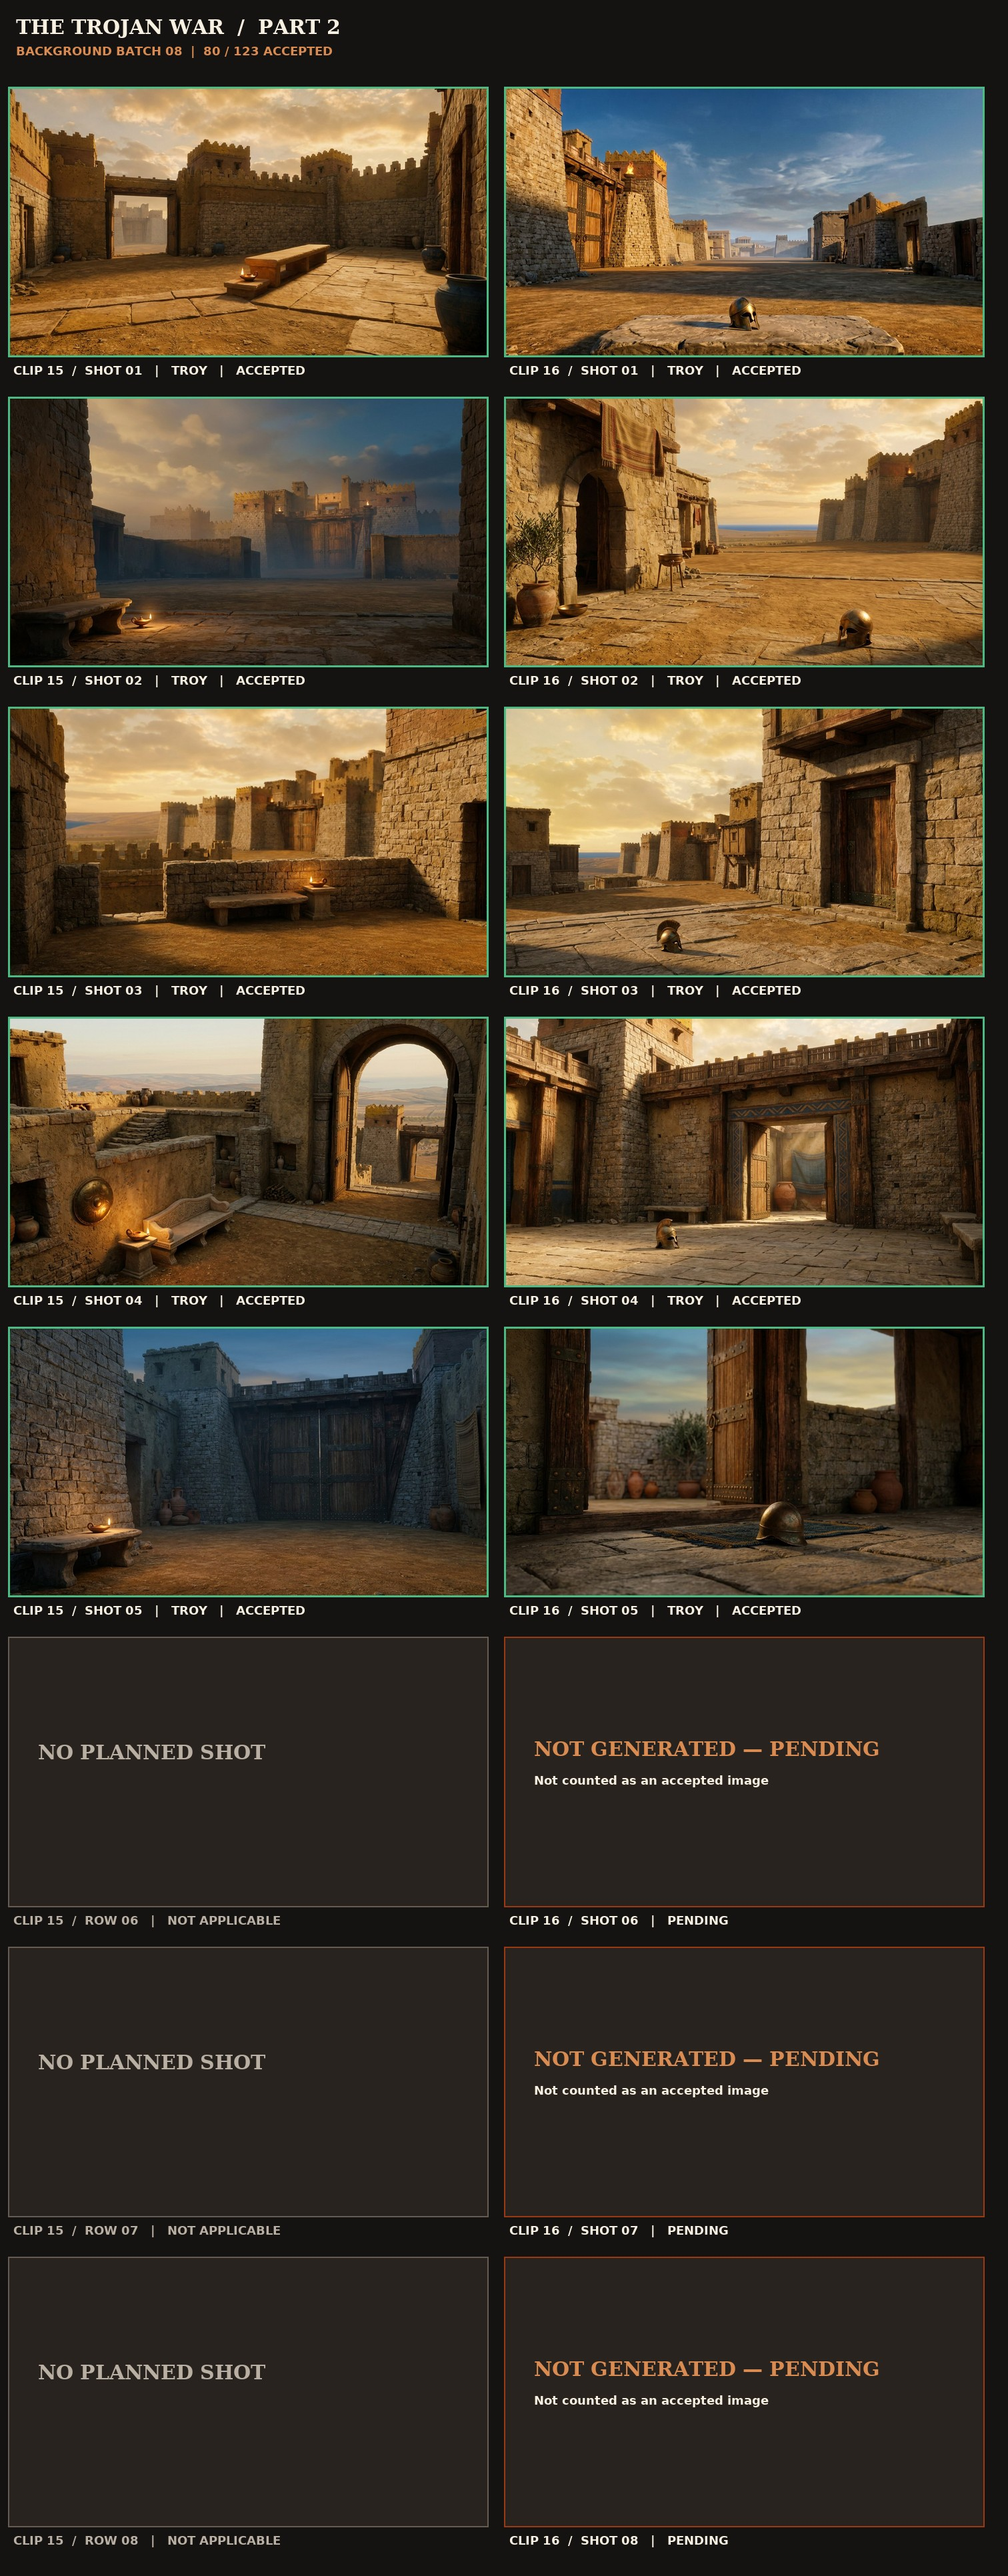
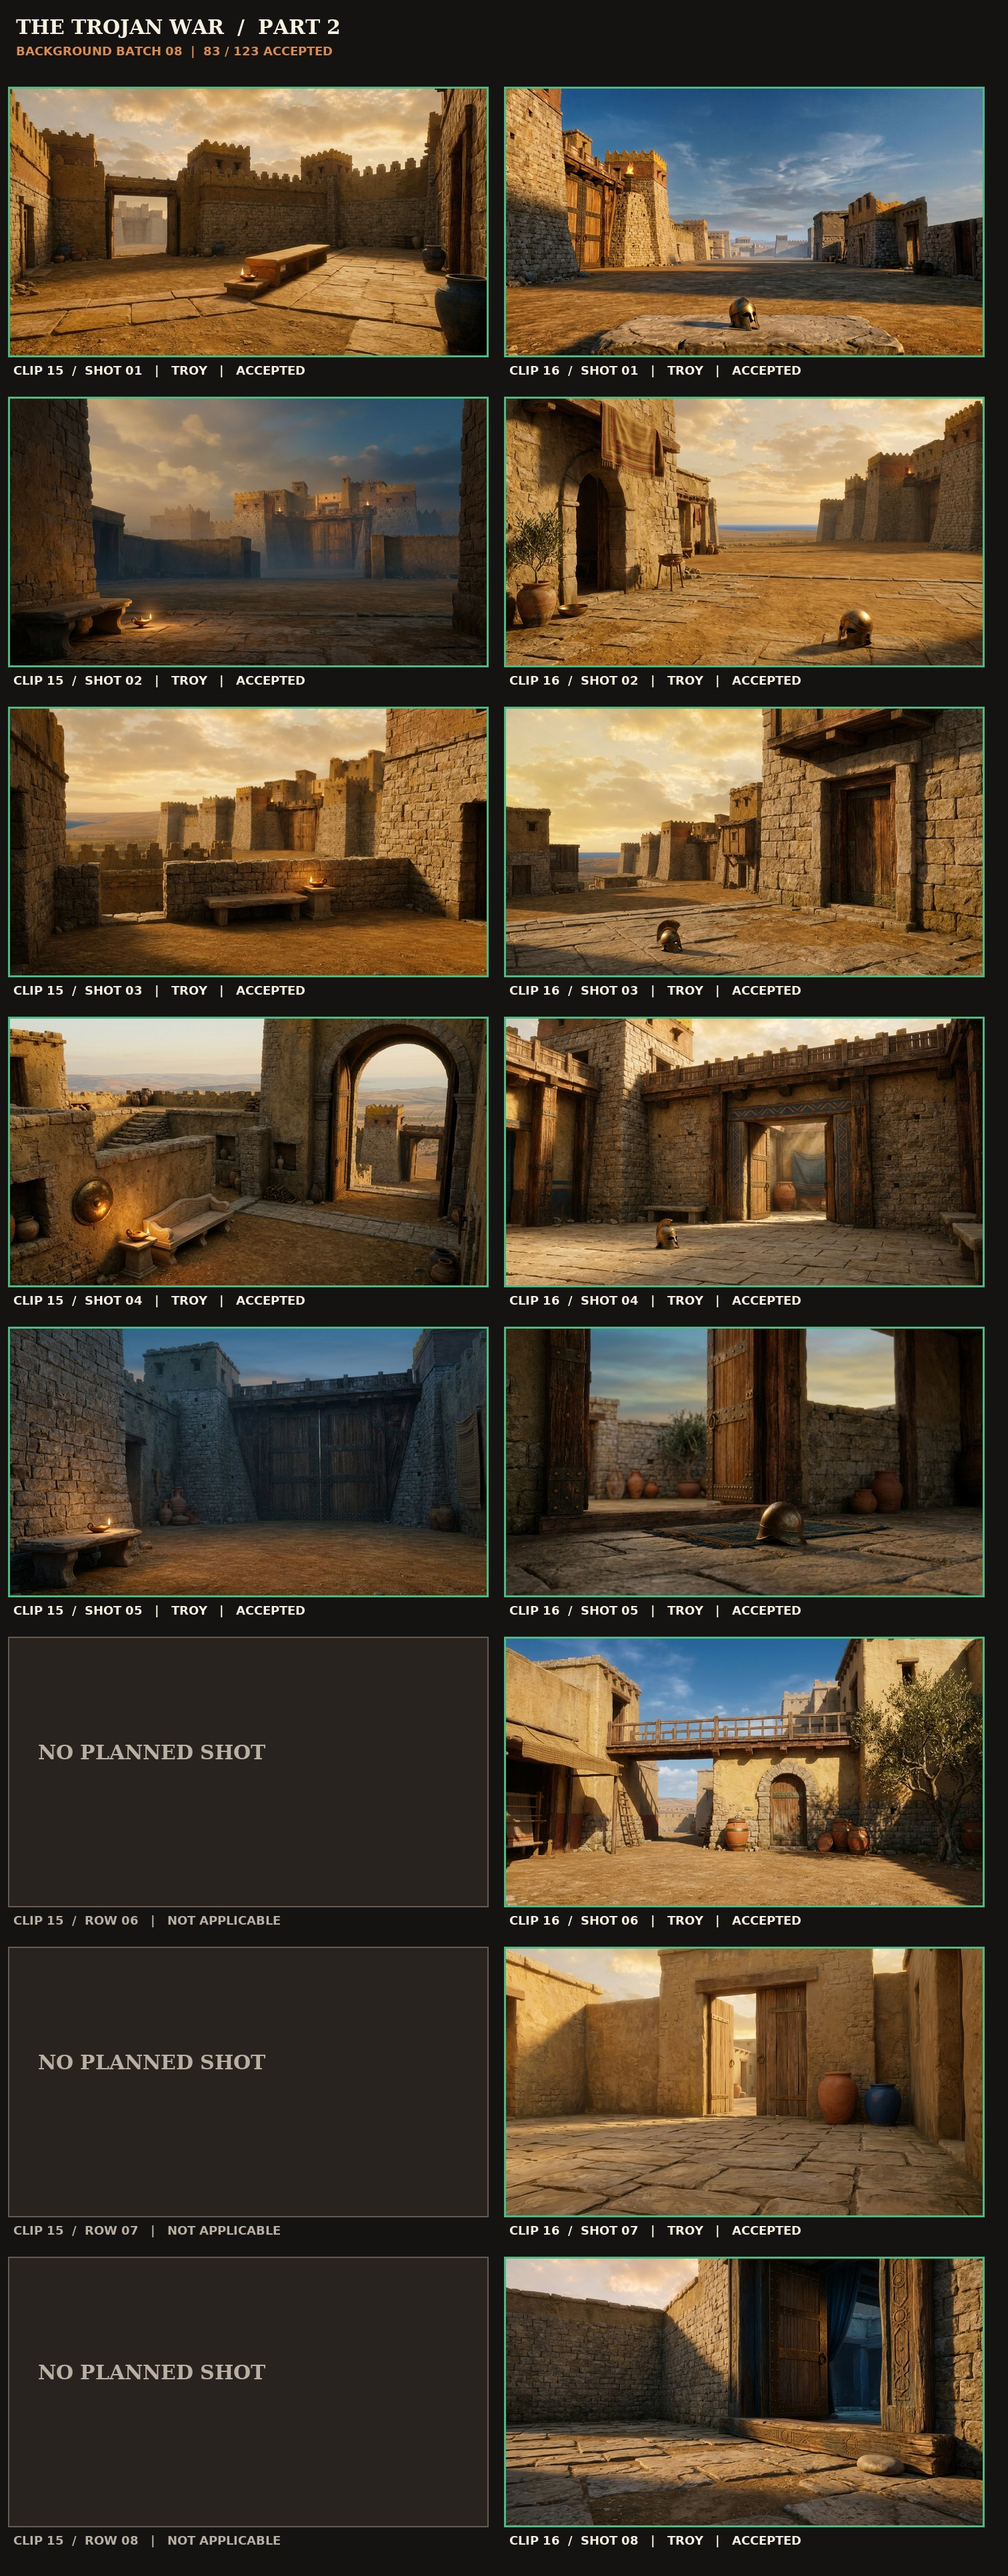
Complete Part 2 background batch 08 (13 of 13 plates)
Finished clips 15-16: private Trojan courtyard (Hector/Andromache
farewell) and the sunlit Trojan doorway household. Clip 16 shot 07
was rejected for carved glyph-like pseudo-lettering on the threshold
beam and door frame, then replaced with a corrective reroll verified
clean at 3x zoom.

Part 2 total: 83/123 accepted, 40 pending; clips 01-16 complete.
Batch 09 handoff (clips 17-18, full prompts) in next_background.json.
Script and VO unchanged.

Changed region(s): [[0.4974, 0.6211, 0.9947, 0.9938]]

diff --git a/production/STATUS.md b/production/STATUS.md
@@ -4,7 +4,7 @@
 **Recovered checkpoint:** `origin/arena/01a1032c-yt-2` at `774100f` (2026-10-04); accepted assets and recorded approvals are reused, not regenerated.
 **Locked script source:** `production/script_approved.txt` remains byte-identical to the supplied script; the separate retention draft is not the VO source. By explicit user approval, three non-graphic wording substitutions are permitted for Part 2 Chapter 7 narrator audio only; they are documented in `production/part2/chapter7_vo_override.json` and do not alter the locked source file.
 **Part 1 status:** Complete — 125/125 accepted plates, all 25 clips assembled, rendered, and QC-passed. The full export and QC reports are saved under `production/part1/`; the approved preview is unchanged.
-**Part 2 status:** VO and motion plan complete (24 measured clips / 123 unique plate slots). The five new character sheets were approved by the user with “continue” on 2026-10-05; all five static cutouts and face anchors pass visual QC. Background batches 01–08 are complete for the plates generated so far: 80/123 plates accepted, 43 pending (batches 05 and 07 each included one corrective reroll). Batch 08 covered clips 15–16: 10 of the 13 planned plates were generated and accepted with 0 rerolls; the turn generation cap deferred clip 16 shots 06–08.
+**Part 2 status:** VO and motion plan complete (24 measured clips / 123 unique plate slots). The five new character sheets were approved by the user with “continue” on 2026-10-05; all five static cutouts and face anchors pass visual QC. **Background batch 08 is complete: 83/123 plates accepted, 40 pending**, clips 01–16 fully covered. Batches 05, 07 and 08 each included one corrective reroll. Per the user's direction on 2026-10-05, generation runs at a strict 10-image-per-batch cadence: a batch is generated, reviewed, recorded and pushed, then work pauses with a “continue” request before the next batch.
 ## Current session — 2026-10-05
 - Added a separate complete-Part-1 renderer at `tools/render_part1.py` (all 25 clips, animated 2.5-second opening title and Part II tease). It writes `production/part1/part1_full.mp4` and does not overwrite the approved clip 01 + 05 preview.
 - Added exact per-clip VO sample trimming/padding against the locked timeline, frame-rounding audio tail compensation, a bounded background cache, and a music fade on the teaser card. Approved script text and VO segment records remain untouched.
@@ -22,7 +22,7 @@
 - Background batch 04: clips 07–08 complete; 10/10 plates individually viewed and accepted, with no rerolls. At that checkpoint: 40/123 accepted, 83 pending. Contact sheet and QC: `production/part2/backgrounds_batch_04_contact.jpg` and `backgrounds_batch_04_QC.md`.
 - Background batch 05: clips 09–10 complete; all 10 plates individually reviewed and accepted after one corrective reroll. The first Olympus detail candidate (`p2_clip_10` shot 03) was rejected for a modern-looking grate and text-like ornament; its corrected, grate-free prompt produced the accepted replacement. At that checkpoint: 50/123 accepted, 73 pending. Contact sheet and QC: `production/part2/backgrounds_batch_05_contact.jpg` and `backgrounds_batch_05_QC.md`.
 - Background batch 06: clips 11–12 complete; all 10 plates individually reviewed and accepted with no rerolls. Trojan duel field and rampart environments match the approved Troy reference and preserve open character staging. At that checkpoint: 60/123 accepted, 63 pending. Contact sheet and QC: `production/part2/backgrounds_batch_06_contact.jpg` and `backgrounds_batch_06_QC.md`.
-- Background batch 08: clips 15–16 in progress. **10/10 generated plates individually viewed and accepted with 0 rerolls** — the private Trojan courtyard (clip 15, all five shots) and the sunlit Trojan doorway household (clip 16 shots 01–05), including the small bronze helmet resting in the open as the scene's protected prop. The 10-image-per-turn generation cap was reached, so `p2_clip_16` shots 06–08 were deferred; their prompts are unchanged in `scenes.json` and the exact resume handoff (with full prompts) is saved in `production/part2/next_background.json`. At this checkpoint: 80/123 accepted, 43 pending. Contact sheet (pending slots explicitly labelled): `production/part2/backgrounds_batch_08_contact.jpg`; checklist: `production/part2/backgrounds_batch_08_QC.md`. Next: finish `p2_clip_16` shots 06–08, then batch 09 (clips 17–18).
+- Background batch 08: clips 15–16 **complete — 13/13 plates individually viewed and accepted**. Ten plates were accepted in the first pass; the three remaining clip 16 plates (shots 06–08) were then generated and reviewed, and shot 07 was rejected for carved glyph-like pseudo-lettering on the threshold beam and door frame and replaced with a corrective reroll (plain undecorated doorway), verified clean at 3× zoom before acceptance. The batch covers the private Trojan courtyard (clip 15, all five shots) and the sunlit Trojan doorway household (clip 16, all eight shots), including the small bronze helmet resting in the open as the scene's protected prop. **Current total: 83/123 accepted, 40 pending; clips 01–16 complete.** Contact sheet: `production/part2/backgrounds_batch_08_contact.jpg`; checklist: `production/part2/backgrounds_batch_08_QC.md`. Next: batch 09, clips 17–18 — exact plate list and prompts saved in `production/part2/next_background.json`.
 
 **Format:** 16:9 (1920×1080) · **Target Pace:** ~130 wpm · **Parts:** 4 parts (~23.40 min total, 92 clips)
 **Style Mode:** `HYBRID` (2D cartoon rigged characters + AI-generated painterly-realistic Bronze Age environments, no people/text in backgrounds)
@@ -72,7 +72,7 @@
     - `odysseus`: IoU = **0.85** (`PASS >= 0.80`)
     - `agamemnon`: IoU = **0.91** (`PASS >= 0.80`)
     - `hector`: IoU = **0.87** (`PASS >= 0.80`)
-  - **Per-Scene Plan (`production/scenes.json`):** Part 1 remains 25 clips / 125 accepted shot entries; Part 2 has 24 clips / 123 planned plates (80 accepted, 43 pending; `p2_clip_16` uses eight for its longer 23.678s VO clip). Step 3 is cleared and all new static cutouts/face anchors are QC-passed.
+  - **Per-Scene Plan (`production/scenes.json`):** Part 1 remains 25 clips / 125 accepted shot entries; Part 2 has 24 clips / 123 planned plates (83 accepted, 40 pending; `p2_clip_16` uses eight for its longer 23.678s VO clip). Step 3 is cleared and all new static cutouts/face anchors are QC-passed.
   - **First Assembled Animated Scene Preview (`production/part1/scene_01_preview.mp4`):**
     - Duration: `38.13s` @ 24 fps · Mean frame diff: `5.395` · Max frozen stretch: `0.00s` (`PASS <= 2.00s`).
     - Motion report: `production/part1/scene_01_motion_report.txt` · Spot frames: `production/part1/scene_01_spot_frames.jpg`.

diff --git a/production/part2/part2_scene_plan_notes.md b/production/part2/part2_scene_plan_notes.md
@@ -12,4 +12,4 @@
 
 ## Approval / production gate
 
-The user approved all five new static character-sheet designs with “continue” on 2026-10-05; the approval record and labelled 14-character review grid are under `production/part2/character_sheets/`. Step 3 is cleared. Five border-matted transparent cutouts and dialogue face anchors are QC-passed; their sources, hashes and calibration preview are recorded in the character-sheet manifest. Background batches 01–08 are complete for the plates generated so far: 80/123 plates accepted, 43 pending; batches 05 and 07 each include one accepted corrective reroll. Batch 08 accepted ten clip 15–16 plates with 0 rerolls; the turn cap deferred `p2_clip_16` shots 06–08, whose exact prompts are recorded in `production/part2/next_background.json`. Batch 01 covers clips 01–02; batch 02 covers clips 03–04; batch 03 covers clips 05–06; batch 04 covers clips 07–08; batch 05 covers clips 09–10; batch 06 covers clips 11–12; batch 07 covers clips 13–14; batch 08 covers clips 15–16 (clip 15 complete; clip 16 shots 01–05, with 06–08 pending). Their review contact sheets and checklists are `production/part2/backgrounds_batch_01_contact.jpg` / `backgrounds_batch_01_QC.md`, `production/part2/backgrounds_batch_02_contact.jpg` / `backgrounds_batch_02_QC.md`, `production/part2/backgrounds_batch_03_contact.jpg` / `backgrounds_batch_03_QC.md`, `production/part2/backgrounds_batch_04_contact.jpg` / `backgrounds_batch_04_QC.md`, `production/part2/backgrounds_batch_05_contact.jpg` / `backgrounds_batch_05_QC.md`, `production/part2/backgrounds_batch_06_contact.jpg` / `backgrounds_batch_06_QC.md`, `production/part2/backgrounds_batch_07_contact.jpg` / `backgrounds_batch_07_QC.md`, and `production/part2/backgrounds_batch_08_contact.jpg` / `backgrounds_batch_08_QC.md`. The initial `p2_clip_10` shot 03 candidate was rejected and excluded; a corrected, grate-free prompt was used for the accepted reroll and is recorded in both `background_manifest.json` and `scenes.json`. The initial `p2_clip_14` shot 02 candidate was rejected and excluded; a corrected stone-and-olive prompt excluding plumbing produced the accepted replacement and is recorded in both `background_manifest.json` and `scenes.json`. Each generated plate still requires individual visual review before it is recorded as accepted.
+The user approved all five new static character-sheet designs with “continue” on 2026-10-05; the approval record and labelled 14-character review grid are under `production/part2/character_sheets/`. Step 3 is cleared. Five border-matted transparent cutouts and dialogue face anchors are QC-passed; their sources, hashes and calibration preview are recorded in the character-sheet manifest. Background batches 01–08 are complete: 83/123 plates accepted, 40 pending; batches 05, 07 and 08 each include one accepted corrective reroll. Batch 08 covers clips 15–16 in full (13/13 plates), with the clip 16 shot 07 glyph-like carving candidate rejected and replaced, so clips 01–16 are fully covered. The batch 09 handoff for clips 17–18 is recorded in `production/part2/next_background.json`. Batch 01 covers clips 01–02; batch 02 covers clips 03–04; batch 03 covers clips 05–06; batch 04 covers clips 07–08; batch 05 covers clips 09–10; batch 06 covers clips 11–12; batch 07 covers clips 13–14; batch 08 covers clips 15–16 in full (13/13 plates). Their review contact sheets and checklists are `production/part2/backgrounds_batch_01_contact.jpg` / `backgrounds_batch_01_QC.md`, `production/part2/backgrounds_batch_02_contact.jpg` / `backgrounds_batch_02_QC.md`, `production/part2/backgrounds_batch_03_contact.jpg` / `backgrounds_batch_03_QC.md`, `production/part2/backgrounds_batch_04_contact.jpg` / `backgrounds_batch_04_QC.md`, `production/part2/backgrounds_batch_05_contact.jpg` / `backgrounds_batch_05_QC.md`, `production/part2/backgrounds_batch_06_contact.jpg` / `backgrounds_batch_06_QC.md`, `production/part2/backgrounds_batch_07_contact.jpg` / `backgrounds_batch_07_QC.md`, and `production/part2/backgrounds_batch_08_contact.jpg` / `backgrounds_batch_08_QC.md`. The initial `p2_clip_10` shot 03 candidate was rejected and excluded; a corrected, grate-free prompt was used for the accepted reroll and is recorded in both `background_manifest.json` and `scenes.json`. The initial `p2_clip_14` shot 02 candidate was rejected and excluded; a corrected stone-and-olive prompt excluding plumbing produced the accepted replacement and is recorded in both `background_manifest.json` and `scenes.json`. Each generated plate still requires individual visual review before it is recorded as accepted.

diff --git a/production/part2/backgrounds_batch_08_QC.md b/production/part2/backgrounds_batch_08_QC.md
@@ -1,8 +1,8 @@
 # Part 2 Background Batch 08 — QC
 
-**Scope:** clips 15–16 · private Trojan courtyard for the Hector/Andromache farewell and the sunlit Trojan doorway household · 13 planned plates, 10 reviewed in this batch (the remaining three — `p2_clip_16` shots 06–08 — were deferred by the 10-image turn cap and are labelled PENDING on the review sheet).
+**Scope:** clips 15–16 · private Trojan courtyard for the Hector/Andromache farewell and the sunlit Trojan doorway household · all **13 planned plates** reviewed and accepted.
 **Checks:** approved `loc_troy` reference and HYBRID look; varied shot compositions; no people, faces, silhouettes, bodies, readable text, logos, watermarks or modern objects in accepted plates; clear character staging and open lower-third ground; full image decode and accepted 16:9 tolerance; dimensions and SHA-256 recorded in `background_manifest.json` and `scenes.json`.
-**Result:** PASS — 10/10 reviewed plates accepted with **0 rerolls**. Part 2 total: **80/123 accepted, 43 pending**. No script, VO or measured scene timing was changed.
+**Result:** PASS — **13/13 accepted after one corrective reroll**. Part 2 total: **83/123 accepted, 40 pending**. Clips 01–16 are complete. No script, VO or measured scene timing was changed.
 
 | Clip / shot | Setting / view | Dimensions | QC result |
 |---|---|---:|---|
@@ -16,7 +16,8 @@
 | `p2_clip_16` / 03 | Trojan courtyard gate / oblique wide | 1376×768 | PASS — painted geometric doorframe ornament and timber balcony with the crested helmet on open flagstones; the ornament is non-textual geometry and no lettering appears; no people. |
 | `p2_clip_16` / 04 | Trojan doorway & courtyard / medium | 1376×768 | PASS — small bronze helmet on open flagstones before sunlit houses; clear lower staging ground, no people or text. |
 | `p2_clip_16` / 05 | Trojan doorway / low ground-level detail | 1376×768 | PASS — helmet resting on a woven mat inside the open timber doorway with plain jars beyond; no people or text. |
-
-**Held for batch 09:** `p2_clip_16` shots 06–08 (reverse wide, raised three-quarter medium, low side-angle threshold detail). Their prompts are unchanged and already saved in `scenes.json`; the exact resume handoff is recorded in `production/part2/next_background.json`.
+| `p2_clip_16` / 06 | Trojan household courtyard / reverse wide | 1376×768 | PASS — raised timber bridge walkway, shaded awning, plain loom, ladder, clay jars and olive tree around an open sunlit yard; no people or text. |
+| `p2_clip_16` / 07 | Trojan doorway / raised three-quarter medium | 1376×768 | **PASS after corrective reroll** — the first candidate was rejected and excluded for carved glyph-like pseudo-lettering on the threshold beam and door frame; the replacement shows a plain undecorated doorway with ring pulls over worn flagstones, confirmed clean at 3× zoom. No people or text. |
+| `p2_clip_16` / 08 | Trojan household / raised three-quarter detail | 1376×768 | PASS — stone benches, planted troughs, clay jars, plain loom and an arched timber door opening to the roofscape and sea, with an unobstructed foreground; no people or text. |
 
 Review contact sheet: `production/part2/backgrounds_batch_08_contact.jpg`.
